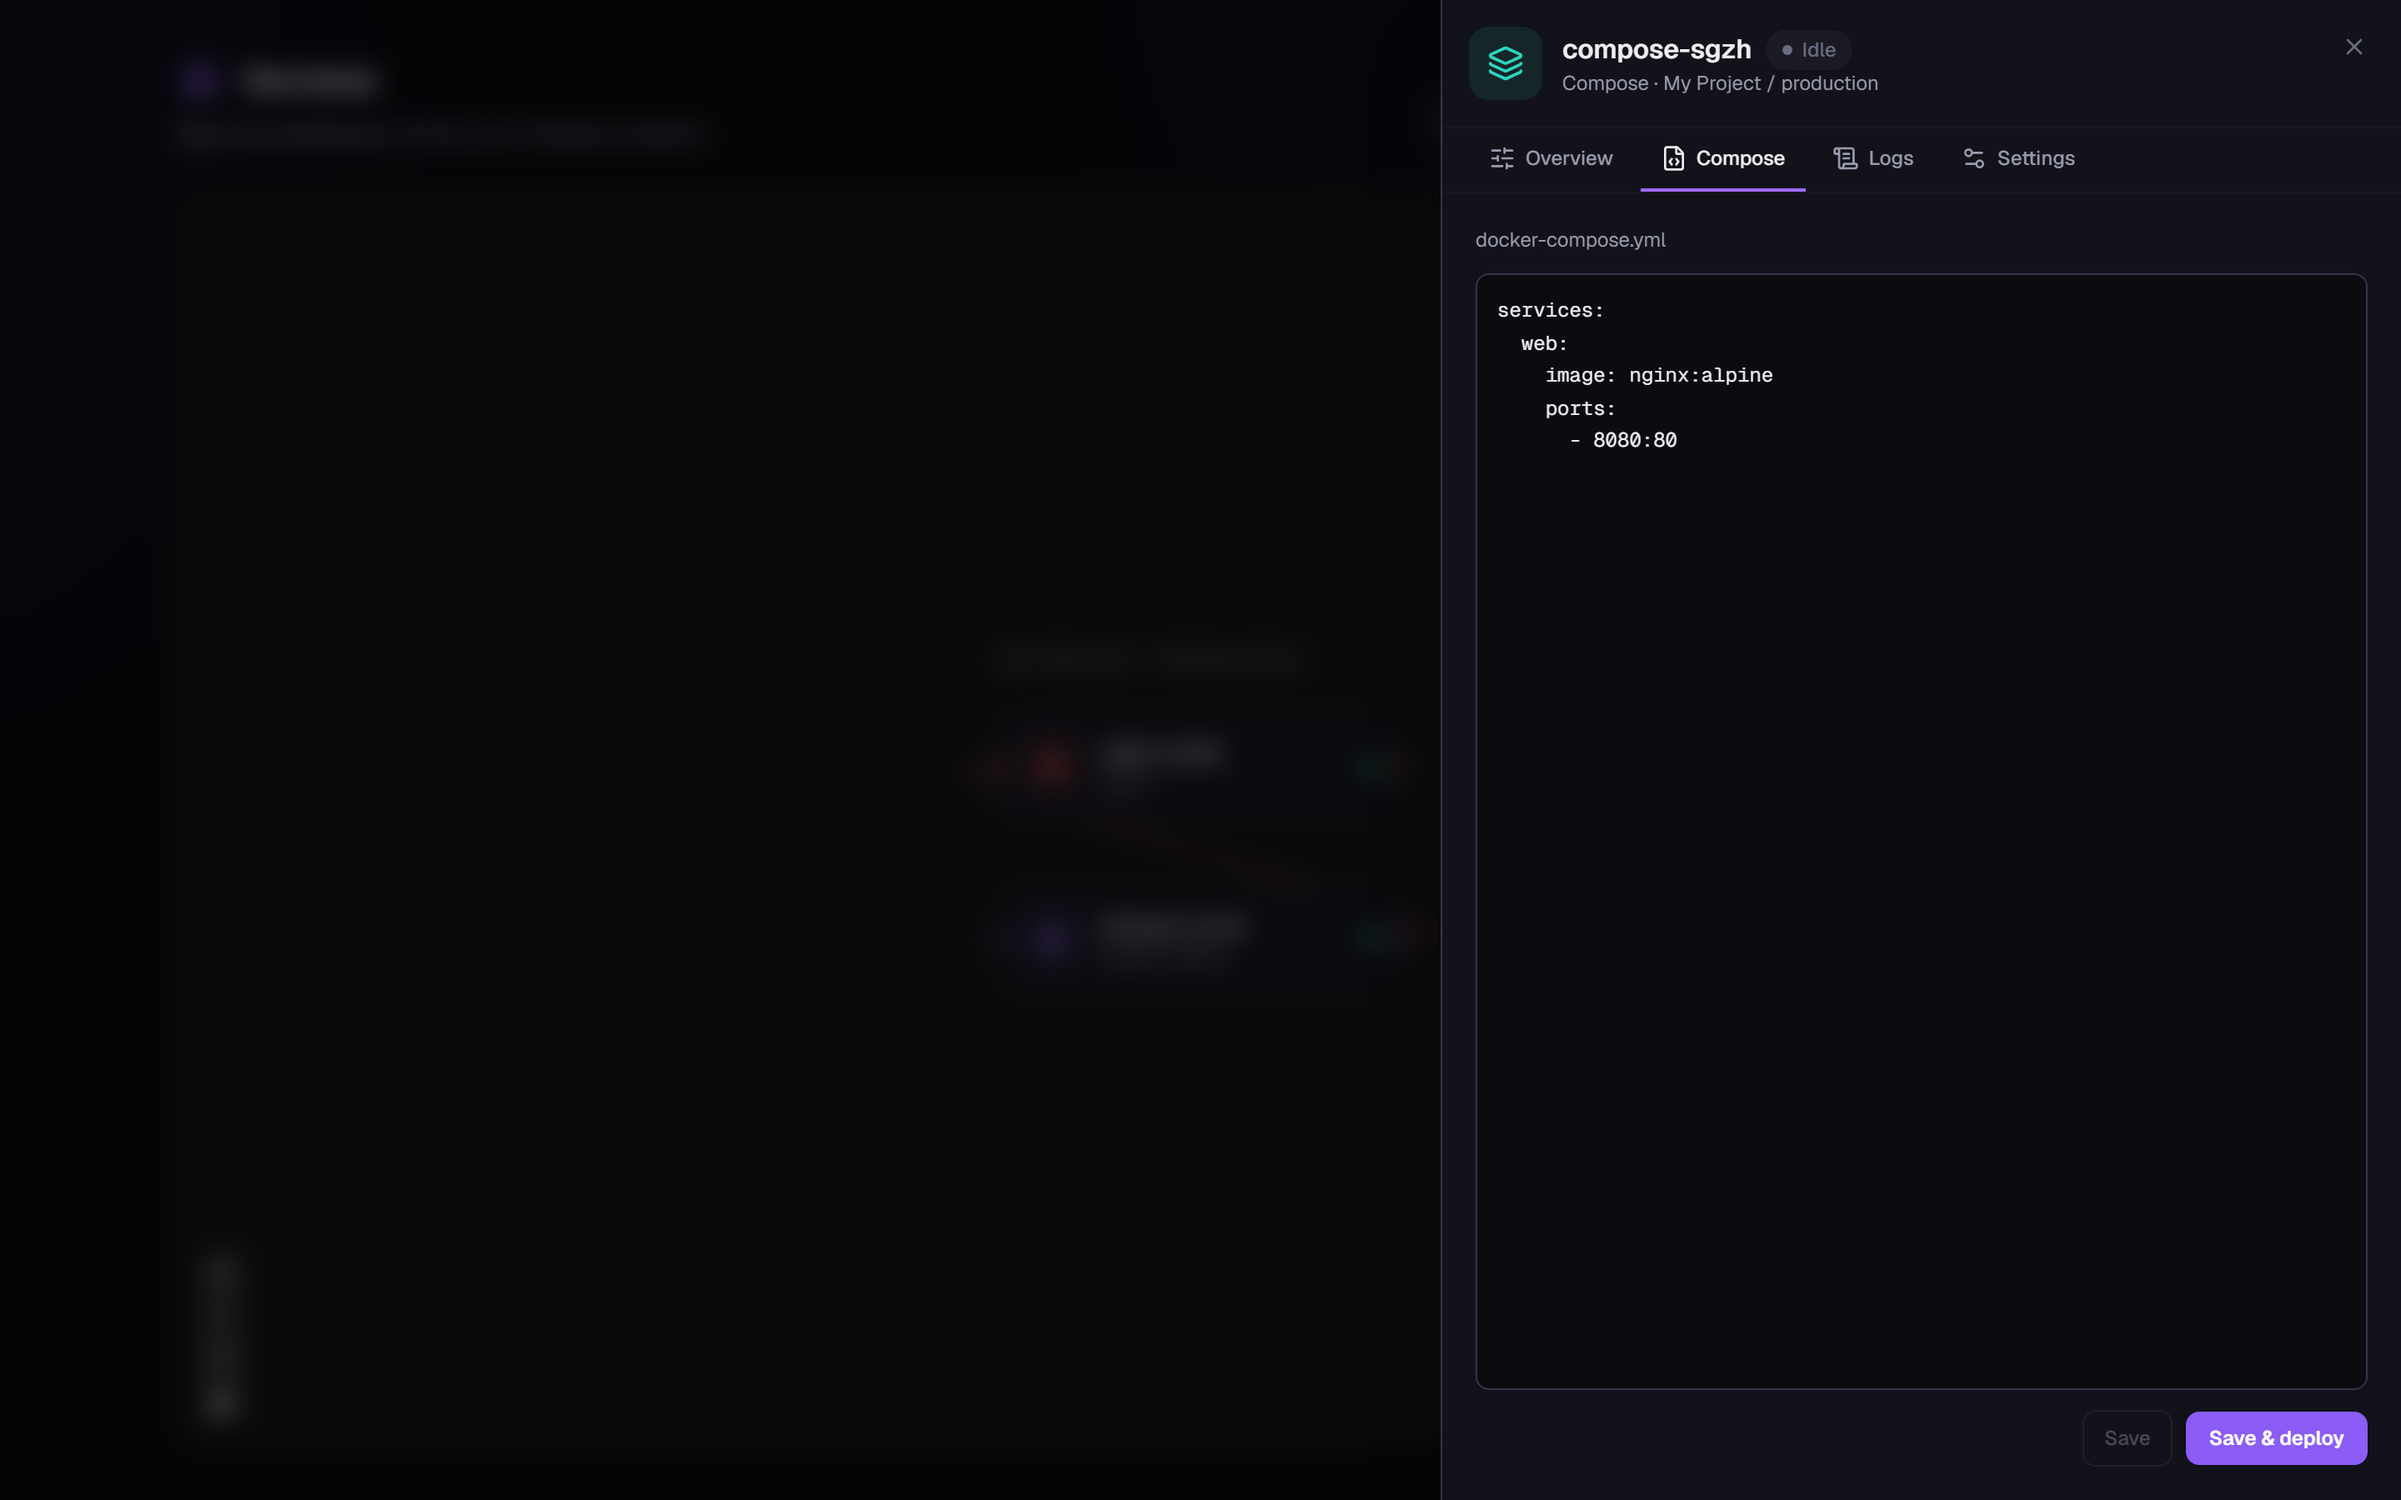
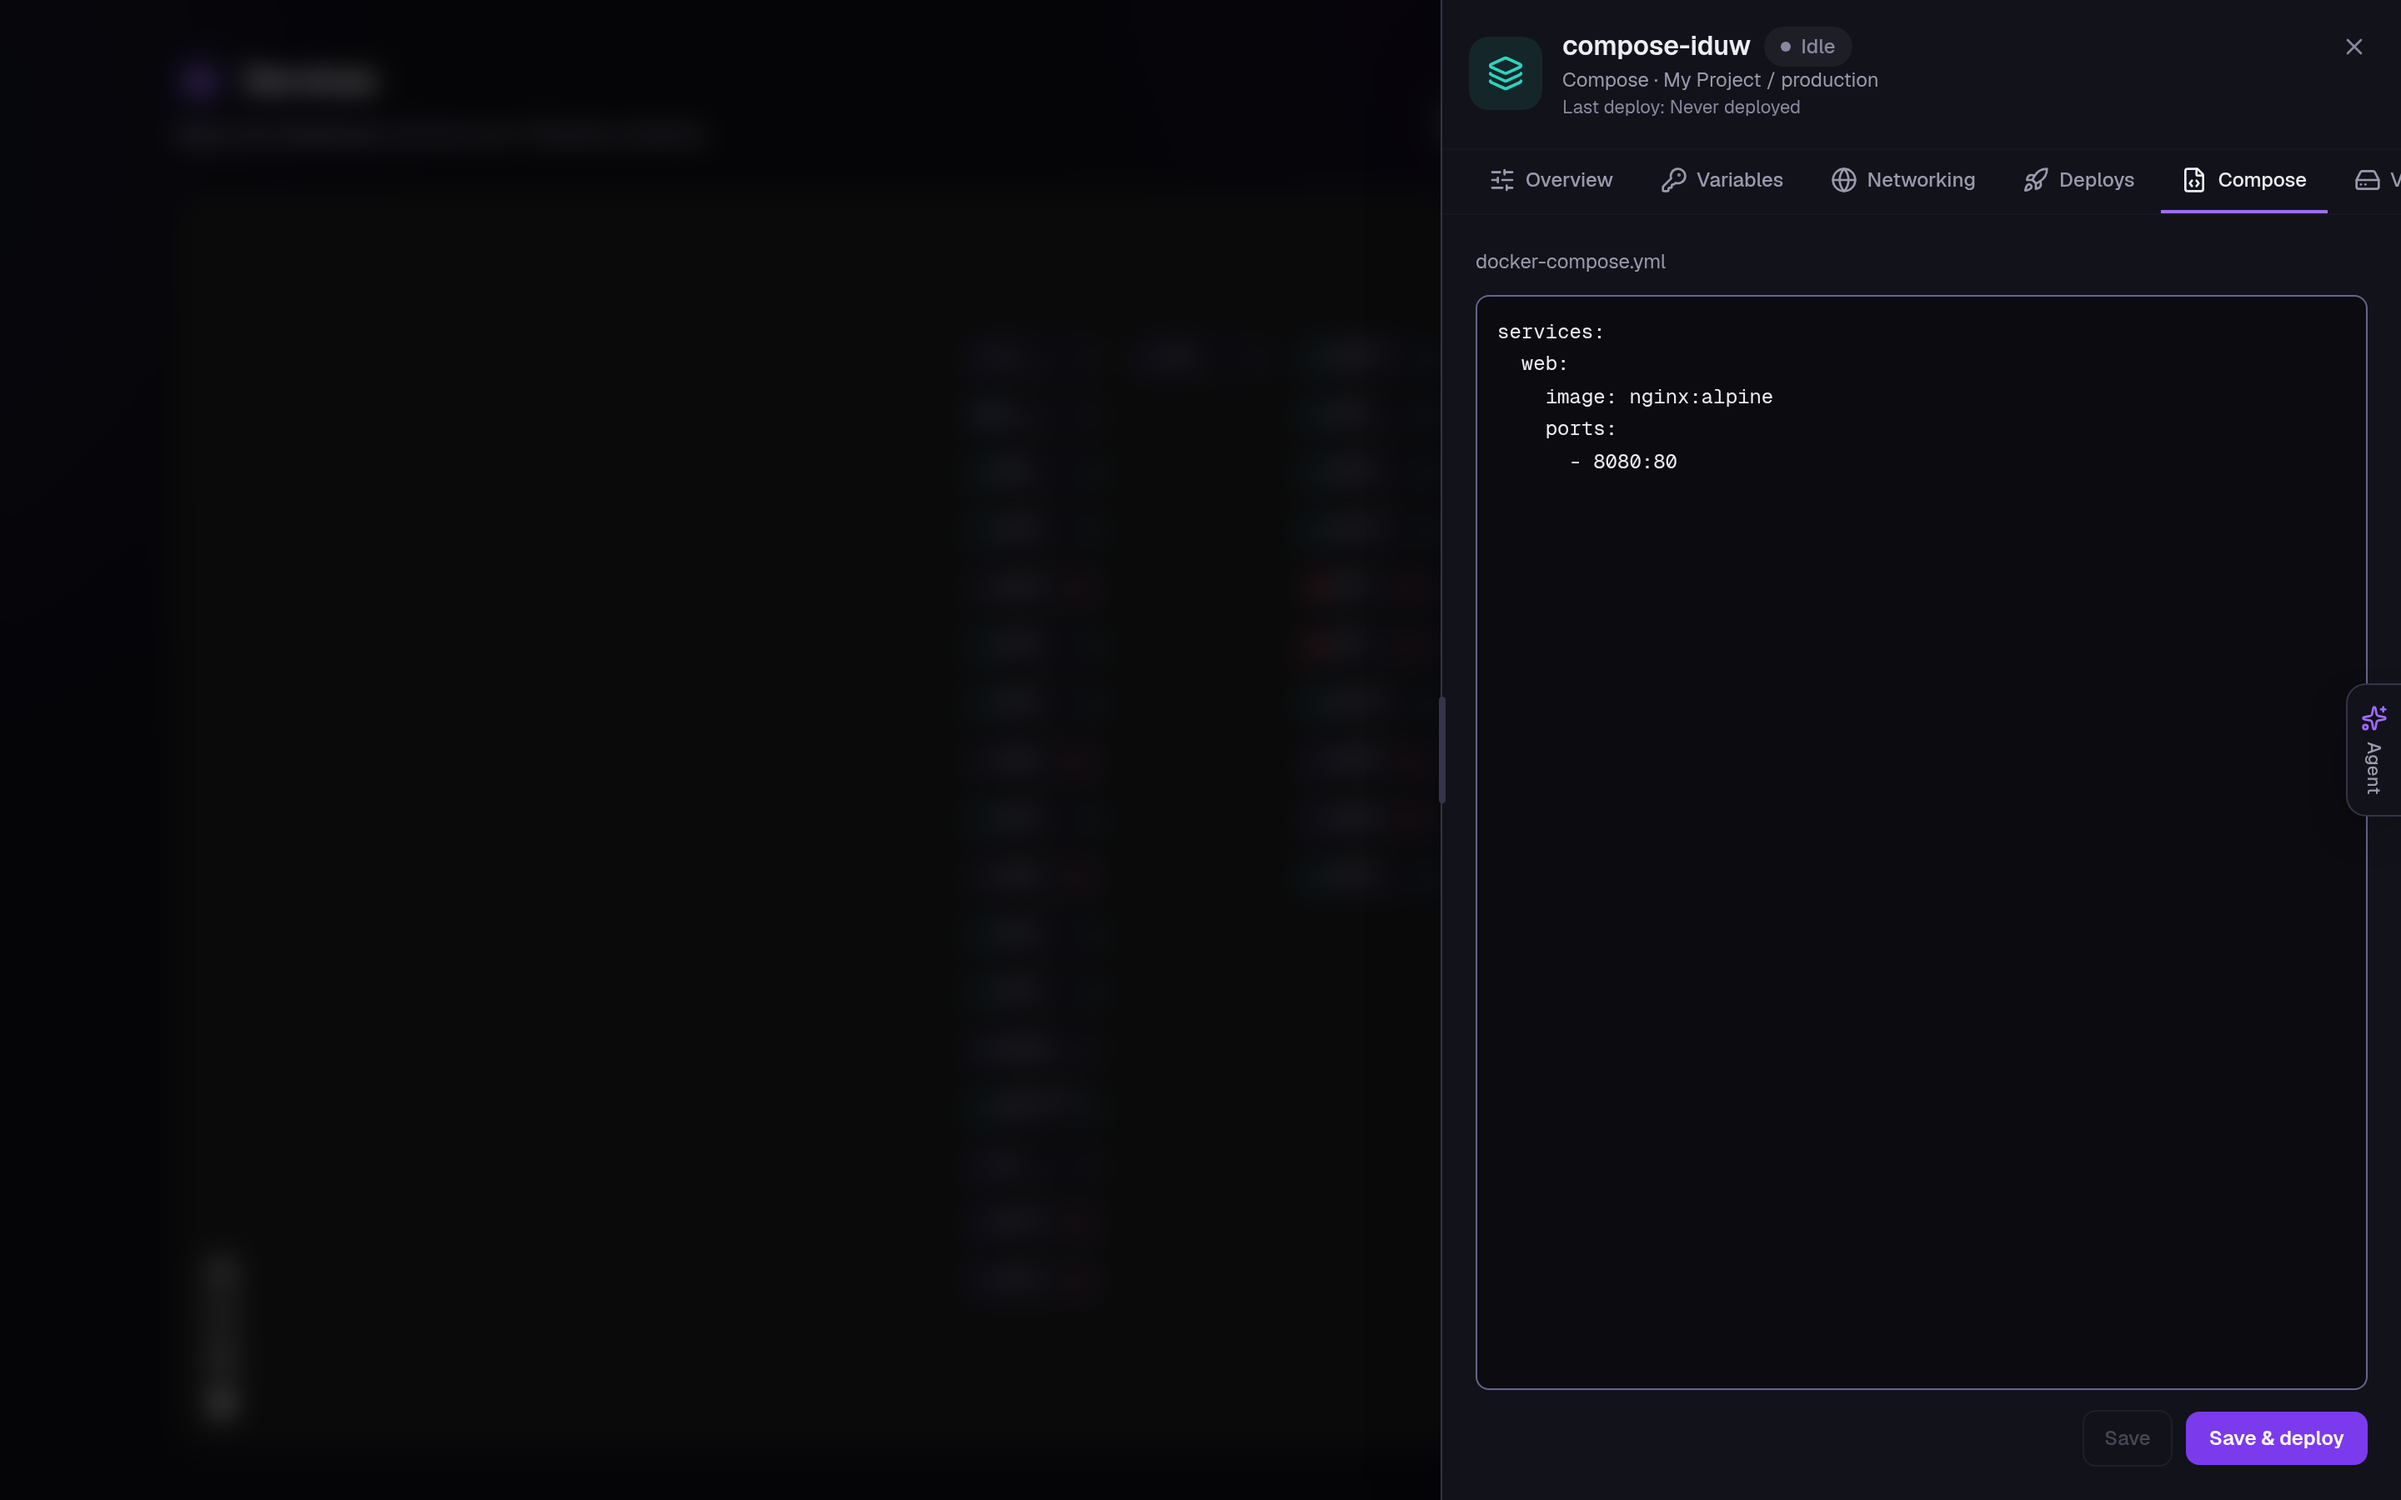
docs: re-take 3 stale operator-guide screenshots on a main build
new-service-menu, deploy-image-filled and compose-editor were captured from main (1fc46d5 code) at 2x. The other 7 (app-*/db-*) need a host where Dokploy's native app/db deploys work; on the bridge-mode demo host they fail.

diff --git a/docs/dashboard-guide.md b/docs/dashboard-guide.md
@@ -61,7 +61,7 @@ The page renders from live Dokploy state on every load, and every action (deploy
 
 Click **New service** to open the creation menu. Everything here is one click (or one field) away from a deployed service; all details are editable afterward in the drawer.
 
-![New service menu: Application section with docker image input, git repo input and Compose stack row; Database section listing PostgreSQL, MySQL, MariaDB, MongoDB and Redis with version tags](images/new-service-menu.png)
+![New service menu: Application section with docker image input, git repo input, From GitHub and Compose stack rows; Templates section with the App catalog; Database section listing PostgreSQL, MySQL, MariaDB, MongoDB and Redis with version tags](images/new-service-menu.png)
 
 The **Application** section offers four ways in: deploy from a Docker image, deploy from a public Git URL, deploy through a GitHub App (including private repositories), or create a Compose stack. The **Database** section lists the five managed engines with the exact image each would deploy: `postgres:18`, `mysql:8.4`, `mariadb:11`, `mongo:8`, `redis:7`.
 
@@ -101,7 +101,7 @@ If no GitHub App is connected, the modal shows **Connect GitHub App**, linking t
 
 Click **Compose stack** and Switchyard immediately creates the service — again, no form. It appears on the canvas as **Idle** (nothing is running yet) and its drawer opens. On the **Compose** tab you'll find the editor seeded with a starter `docker-compose.yml`:
 
-![Compose stack drawer for compose-sgzh in Idle state, showing the Compose tab's YAML editor with the nginx:alpine starter template and the Save and Save & deploy buttons](images/compose-editor.png)
+![Compose stack drawer for compose-iduw in Idle state, showing the Compose tab's YAML editor with the nginx:alpine starter template and the Save and Save & deploy buttons](images/compose-editor.png)
 
 The starter file runs nginx and publishes it on port 8080:
 
